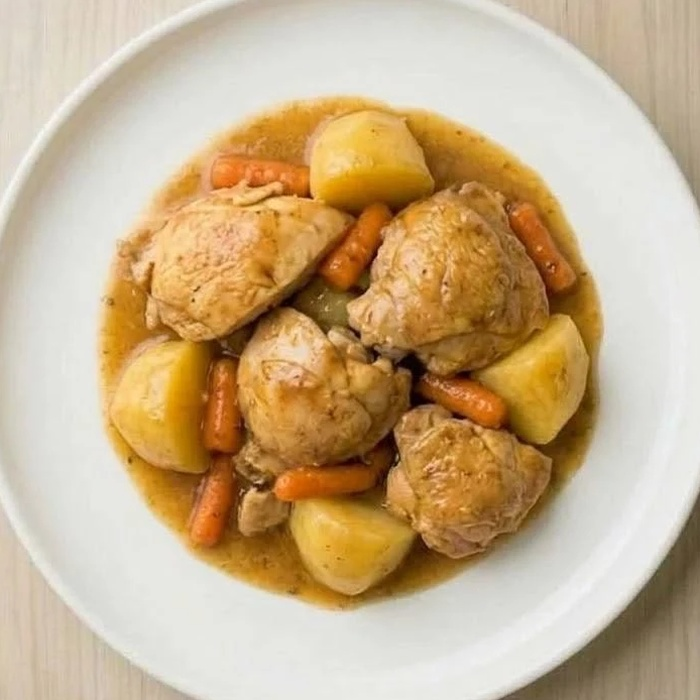
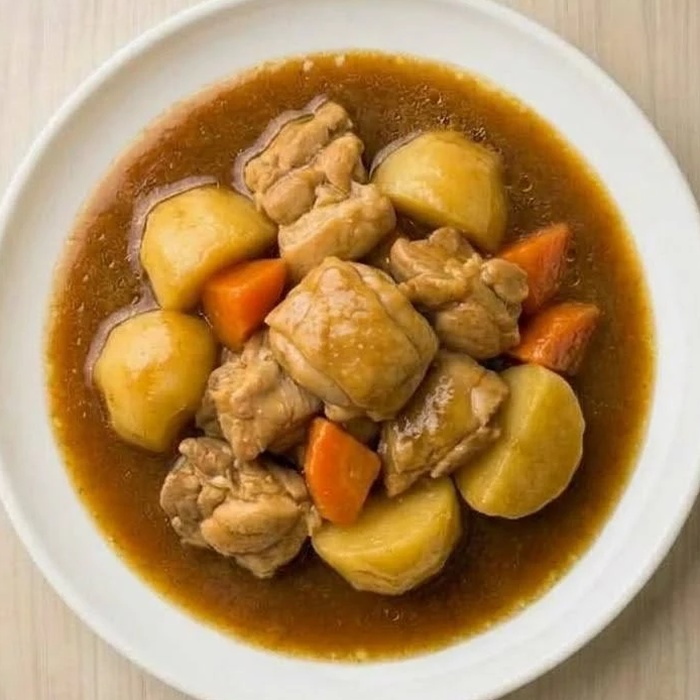
Replace chicken roast photo
Claude-Session: https://claude.ai/code/session_018VN7Wd7HaKX8brqRxcmYgB

diff --git a/index.html b/index.html
@@ -10,7 +10,7 @@
   <link rel="preconnect" href="https://fonts.googleapis.com">
   <link rel="preconnect" href="https://fonts.gstatic.com" crossorigin>
   <link href="https://fonts.googleapis.com/css2?family=Golos+Text:wght@400;500;600&family=Unbounded:wght@500;700;800&display=swap" rel="stylesheet">
-  <link rel="stylesheet" href="style.css?v=17">
+  <link rel="stylesheet" href="style.css?v=18">
 </head>
 <body>
 
@@ -305,6 +305,6 @@
     <button class="toast-action" id="toast-action" type="button">Открыть корзину</button>
   </div>
 
-  <script src="script.js?v=7" defer></script>
+  <script src="script.js?v=8" defer></script>
 </body>
 </html>
